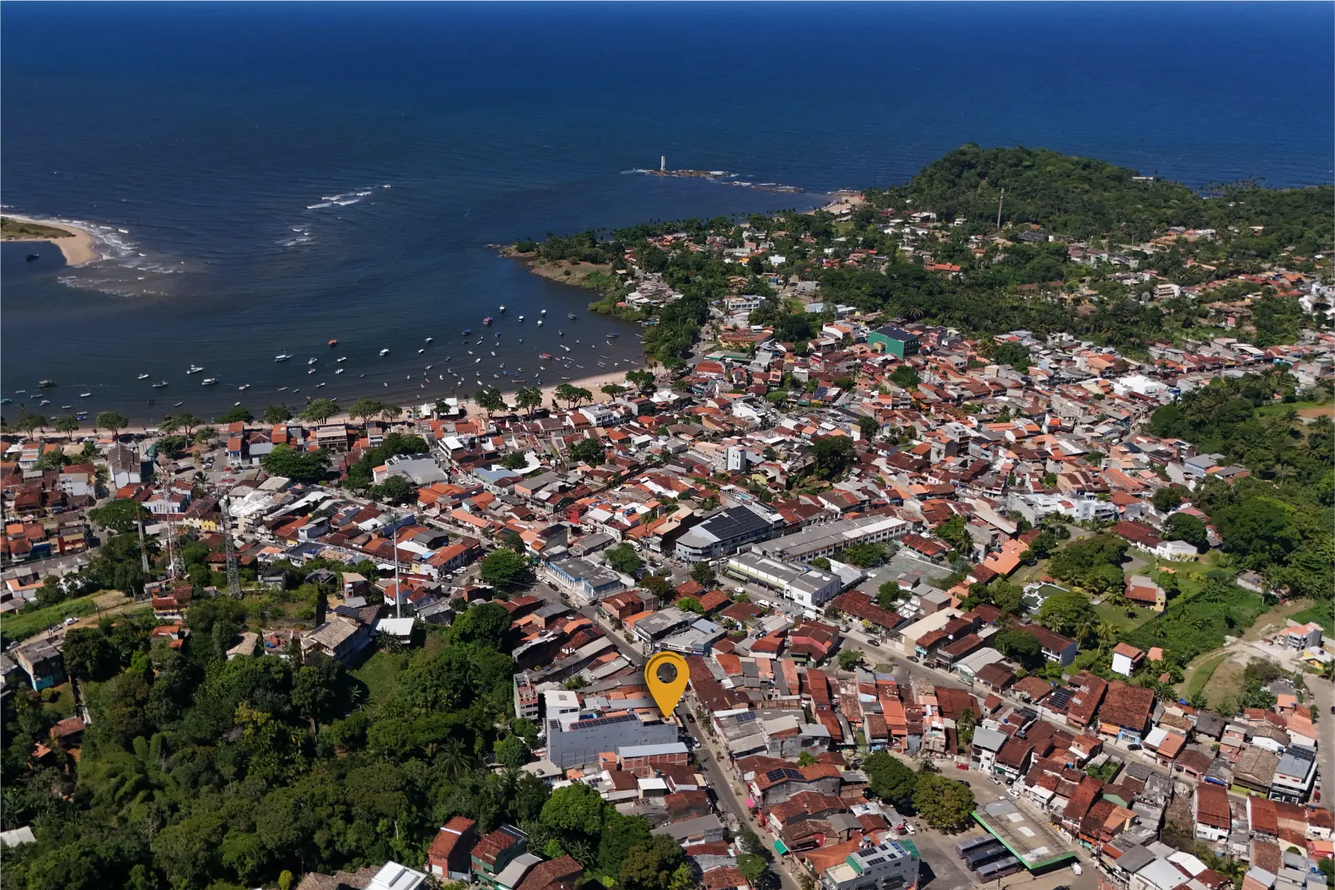
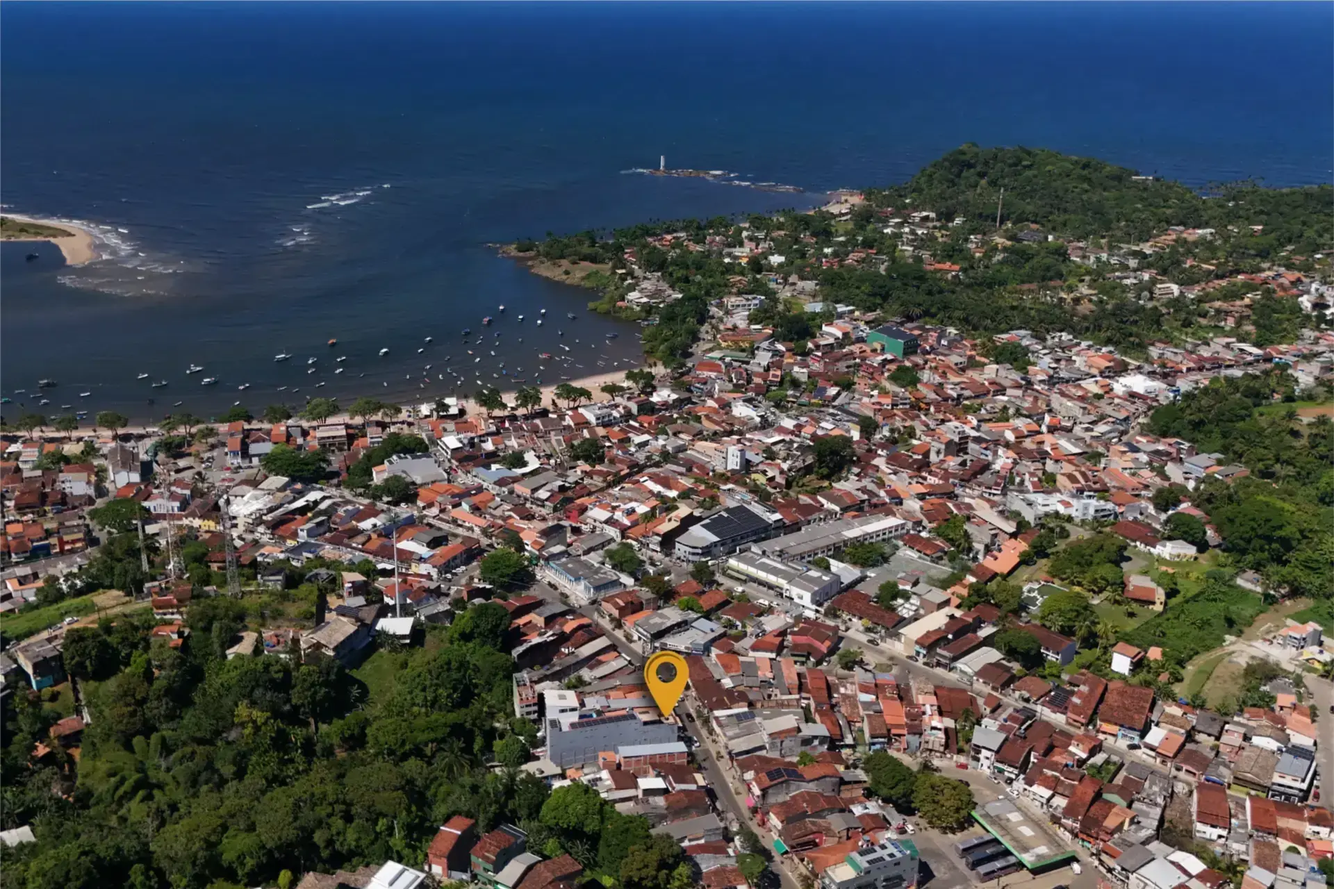
perf: preload new responsive hero image

diff --git a/styles.css b/styles.css
@@ -232,7 +232,7 @@ a {
   display: flex;
   align-items: center;
   justify-content: center;
-  background-image: url('assets/images/hero.webp?v=5');
+  background-image: url('assets/images/hero.webp?v=6');
   background-size: cover;
   background-position: center;
   background-repeat: no-repeat;

diff --git a/index.html b/index.html
@@ -38,6 +38,9 @@
   <!-- Styles -->
   <link rel="stylesheet" href="styles.css">
 
+  <!-- Preload Critical Images -->
+  <link rel="preload" as="image" href="assets/images/hero.webp?v=6">
+
   <!-- Structured Data -->
   <script type="application/ld+json">
   {
